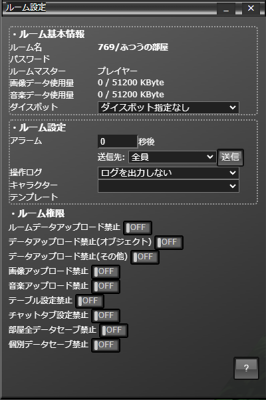
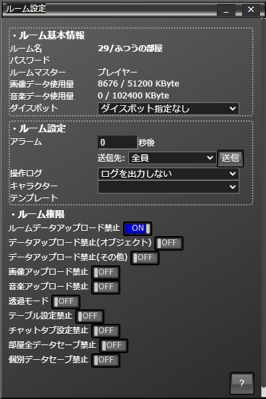
透過モード実装

Changed region(s): [[0.0, 0.0, 1.0, 0.5113], [0.0301, 0.4211, 0.6917, 0.9323], [0.0, 0.8722, 1.0, 1.0]]

diff --git a/src/app/component/help/help-room/help-room.component.html b/src/app/component/help/help-room/help-room.component.html
@@ -27,6 +27,7 @@
         <li>データアップロード禁止(その他)：<br/>ルームマスター以外がオブジェクト以外(チャットログ等)をアップロードすることを禁止します</li>
         <li>画像アップロード禁止：<br/>ルームマスター以外が画像をアップロードすることを禁止します</li>
         <li>音楽アップロード禁止：<br/>ルームマスター以外が音楽をアップロードすることを禁止します</li>
+        <li>透過モード：<br/>ルームマスターが伏せられたダイス・カード・キャラクターを確認可能にします</li>
         <li>テーブル設定禁止：<br/>ルームマスター以外がテーブルを操作することを禁止します</li>
         <li>チャットタブ設定禁止：<br/>ルームマスター以外がチャットタブを操作することを禁止します</li>
         <li>部屋全データセーブ禁止：<br/>ルームマスター以外がルームの全データを保存できなくします</li>
@@ -44,7 +45,7 @@
       アラームが送信されたプレイヤーにはカウントダウンタイマーが表示され、0:00になったときにアラームが鳴り響きます。<br/>
       カウントダウンタイマーは消すことができず、例え表示上から消えても時間になればアラームが鳴ります。
     </div>
-  </div>  
+  </div>
   <div class="title">プレイヤー情報(ルーム→プレイヤー情報)</div>
   <div class="section">
     <div class="image">
@@ -71,6 +72,6 @@
       ルームマスターはこの画面で、オフライン状態のプレイヤーを削除する事が可能です<BR/>
       ルームマスター以外はこの画面を開くことはできません
     </div>
-  </div> 
+  </div>
 </div>
 

diff --git a/src/app/component/card/card.component.html b/src/app/component/card/card.component.html
@@ -3,14 +3,14 @@
   <div @slidInOut class="is-pointer-events-none is-3d">
     <div class="component-content is-pointer-events-auto is-3d"
       appRotable [rotable.option]="rotableOption" (rotable.ondragstart)="onMove()" (rotable.ondragend)="onMoved()">
-      <div *ngIf="isFront || isHand" @flipOpen class="text is-3d" style="width: 100%; height: 100%" [style.opacity]="isHand ? 0.7 : 1.0">
+      <div *ngIf="isFront || canView" @flipOpen class="text is-3d" style="width: 100%; height: 100%" [style.opacity]="canView ? 0.7 : 1.0">
         <div [@inverse]="state" [style.font-size.px]="fontSize + 9" [style.color]="color" class="is-3d" [innerHTML]="rubiedText"></div>
       </div>
-      <img [@inverse]="state" *ngIf="imageFile" class="card-image is-3d" [src]="(isFront ? frontImage.url : backImage.url) | safe: 'resourceUrl'">
+      <img [@inverse]="state" *ngIf="imageFile" class="card-image is-3d" [src]="(canView ? frontImage.url : backImage.url) | safe: 'resourceUrl'">
       <div *ngIf="!isFront && hasOwner && 0 < ownerName.length" class="name-tag is-nowrap has-length-limit is-black-background is-3d" [ngStyle]="{'background-color': ownerColor, 'transform': 'translateY(-75%) translateX(-50%) translateX(' + size * gridSize / 2 +'px)'}">
-        <span class="is-3d"><b>{{ownerName}}</b></span>
+        <span class="is-3d"><b style="color: #222;">{{ownerName}}</b></span>
       </div>
-      <img *ngIf="isHand && frontImage" class="card-image thumbnail-transform is-translucent is-3d" [src]="frontImage.url | safe: 'resourceUrl'">
+      <img *ngIf="canView && frontImage" class="card-image thumbnail-transform is-translucent is-3d" [src]="frontImage.url | safe: 'resourceUrl'">
       <ng-container *ngIf="!isIconHidden">
         <div class="rotate-grab of-left-top is-3d">
           <i class="material-icons">autorenew</i>

diff --git a/src/app/class/dice-symbol.ts b/src/app/class/dice-symbol.ts
@@ -20,13 +20,13 @@ export class DiceSymbol extends TabletopObject {
   @SyncVar() rotate: number = 0;
   @SyncVar() isDropShadow: boolean = true;
   @SyncVar() isLock: boolean = false;
-  
+
   get name(): string { return this.getCommonValue('name', ''); }
   set name(name: string) { this.setCommonValue('name', name); }
   get size(): number { return this.getCommonValue('size', 1); }
   set size(size: number) { this.setCommonValue('size', size); }
 
-  get faces(): string[] { return this.imageDataElement.children.filter(element => (element as DataElement).currentValue != 'nothing').map(element => (element as DataElement).name); }
+  get faces(): string[] { return this.imageDataElement.children ? this.imageDataElement.children.filter(element => (element as DataElement).currentValue != 'nothing').map(element => (element as DataElement).name) : []; }
   get imageFile(): ImageFile {
     return this.isVisible ?
       this.getImageFile(this.face)
@@ -40,10 +40,10 @@ export class DiceSymbol extends TabletopObject {
     this.getImageFile(this.face == '表' ? '裏' : '表')
     : this.getImageFile(this.faces[1])
   }
-  get nothingFaces(): string[] { return this.imageDataElement.children.filter(element => (element as DataElement).currentValue == 'nothing').map(element => (element as DataElement).name); }
+  get nothingFaces(): string[] { return this.imageDataElement.children ? this.imageDataElement.children.filter(element => (element as DataElement).currentValue == 'nothing').map(element => (element as DataElement).name) : []; }
 
   get hasOwner(): boolean { return 0 < this.owner.length; }
-  get isVisible(): boolean { return !this.hasOwner || this.isMine; }
+  get isVisible(): boolean { return !this.hasOwner || this.canView; }
   get isCoin(): boolean { return this.faces.length === 2; }
 
   diceRoll(): string {

diff --git a/src/app/component/room-control/room-control.component.html b/src/app/component/room-control/room-control.component.html
@@ -129,6 +129,7 @@
         <li *ngIf="roomService.roomAdmin.disableObjectLoad">データアップロード禁止(その他)</li>
         <li *ngIf="roomService.roomAdmin.disableImageLoad">画像アップロード禁止</li>
         <li *ngIf="roomService.roomAdmin.disableAudioLoad">音楽アップロード禁止</li>
+        <li *ngIf="roomService.roomAdmin.transparentMode">透過モード</li>
         <li *ngIf="roomService.roomAdmin.disableTableSetting">テーブル設定禁止</li>
         <li *ngIf="roomService.roomAdmin.disableTabSetting">チャットタブ設定禁止</li>
         <li *ngIf="roomService.roomAdmin.disableAllDataSave">部屋全データセーブ禁止</li>
@@ -169,6 +170,10 @@
     </label></div><br>
     <div class="toggle"><label>音楽アップロード禁止
       <input name="disableAudioLoad" type="checkbox" [(ngModel)]="roomService.roomAdmin.disableAudioLoad">
+      <div><div></div></div>
+    </label></div><br>
+    <div class="toggle"><label>透過モード
+      <input name="transparentMode" type="checkbox" [(ngModel)]="roomService.roomAdmin.transparentMode">
       <div><div></div></div>
     </label></div><br>
     <div class="toggle"><label>テーブル設定禁止

diff --git a/src/app/class/tabletop-object.ts b/src/app/class/tabletop-object.ts
@@ -26,7 +26,7 @@ export class TabletopObject extends ObjectNode {
   @SyncVar() posZ: number = 0;
 
   set name(value:string) { this.setCommonValue('name', value); }
-  get name(): string { return this.getCommonValue('name', ''); } 
+  get name(): string { return this.getCommonValue('name', ''); }
   get isVisibleOnTable(): boolean { return this.location.name === 'table'; }
 
   private _imageFile: ImageFile = ImageFile.Empty;
@@ -43,7 +43,12 @@ export class TabletopObject extends ObjectNode {
     return object ? object.color : '#444444';
   }
   get hasOwner(): boolean { return 0 < this.owner.length; }
-  get isMine(): boolean { return PeerCursor.myCursor.player.playerId === this.owner; }
+  get isMine(): boolean {
+    return (PeerCursor.myCursor.player.playerId === this.owner);
+  }
+  get canView(): boolean {
+    return (PeerCursor.myCursor.player.playerId === this.owner) ||  (RoomAdmin.setting.transparentMode && RoomAdmin.auth);
+  }
 
   // GameDataElement getter/setter
   get rootDataElement(): DataElement {

diff --git a/src/app/component/card/card.component.ts b/src/app/component/card/card.component.ts
@@ -97,6 +97,7 @@ export class CardComponent implements OnInit, OnDestroy, AfterViewInit {
   get color(): string { return this.card.color; }
   set color(color: string) { this.card.color = color; }
 
+  get canView(): boolean { return this.card.canView; }
   get isHand(): boolean { return this.card.isHand; }
   get isFront(): boolean { return this.card.isFront; }
   get isVisible(): boolean { return this.card.isVisible; }

diff --git a/src/app/class/room-admin.ts b/src/app/class/room-admin.ts
@@ -3,6 +3,7 @@ import { IONetwork } from "./core/system";
 export class RoomControl {
   identifier = "RoomAdmin";
   adminPlayer:string[] = [];
+  transparentMode:boolean = false;
   disableRoomLoad:boolean = false;
   disableObjectLoad:boolean = false;
   disableTabletopLoad:boolean = false;
